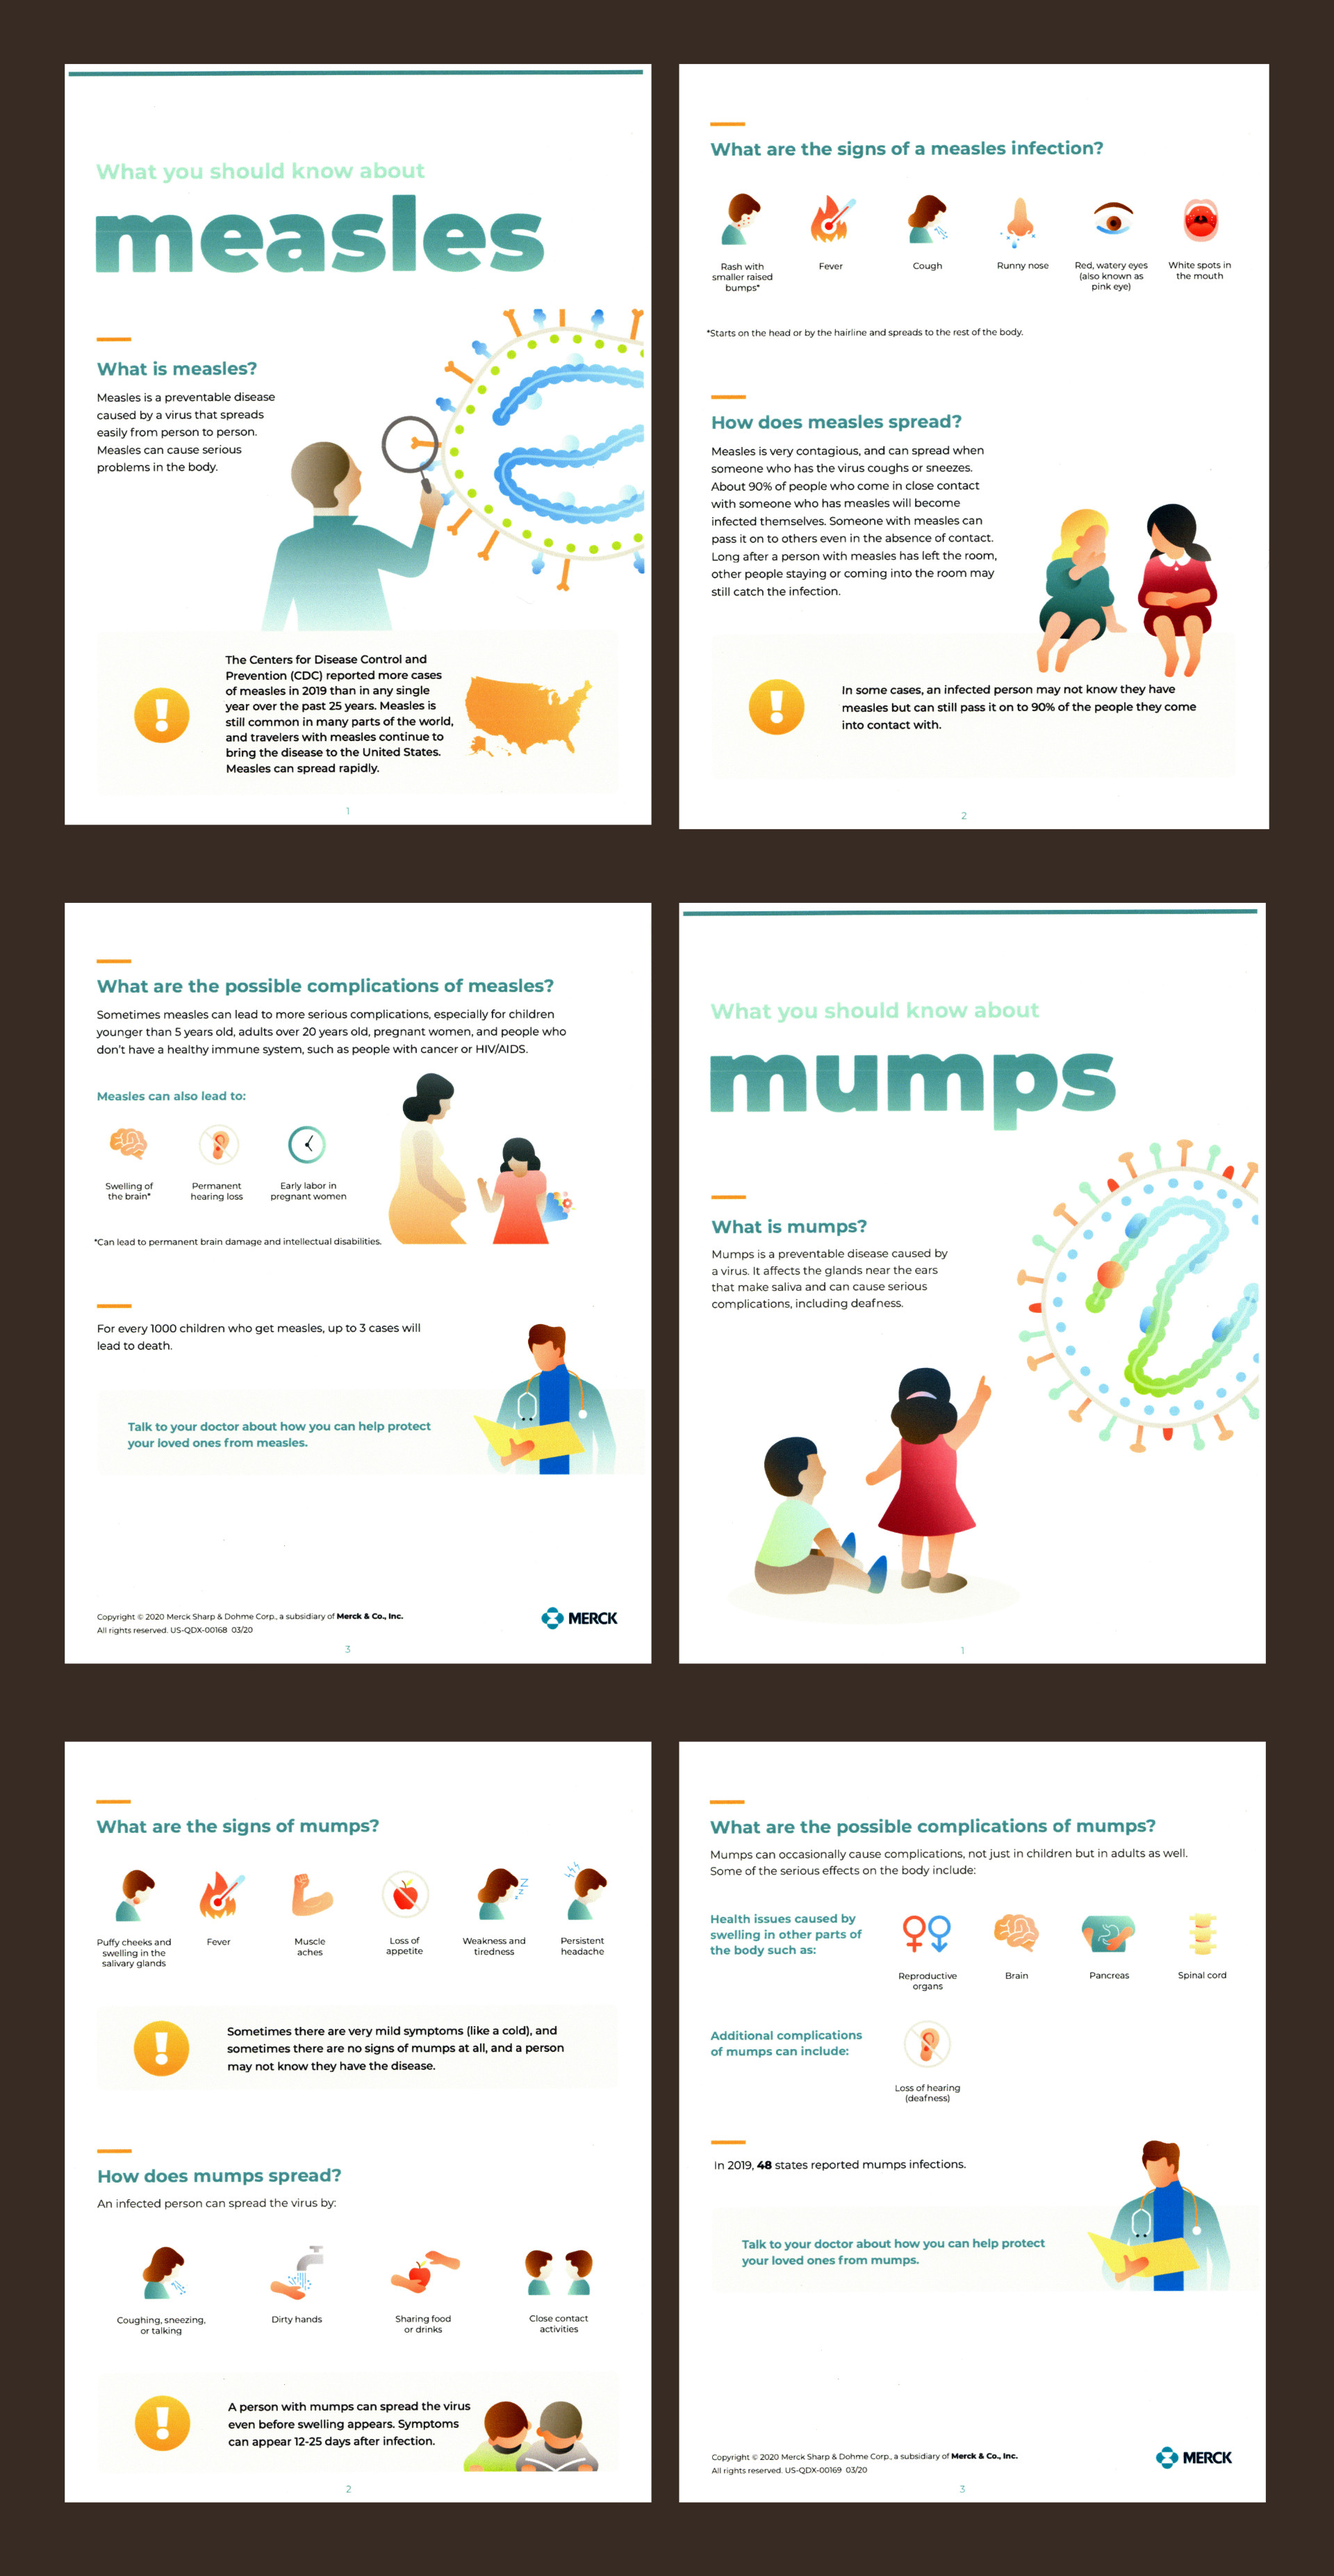
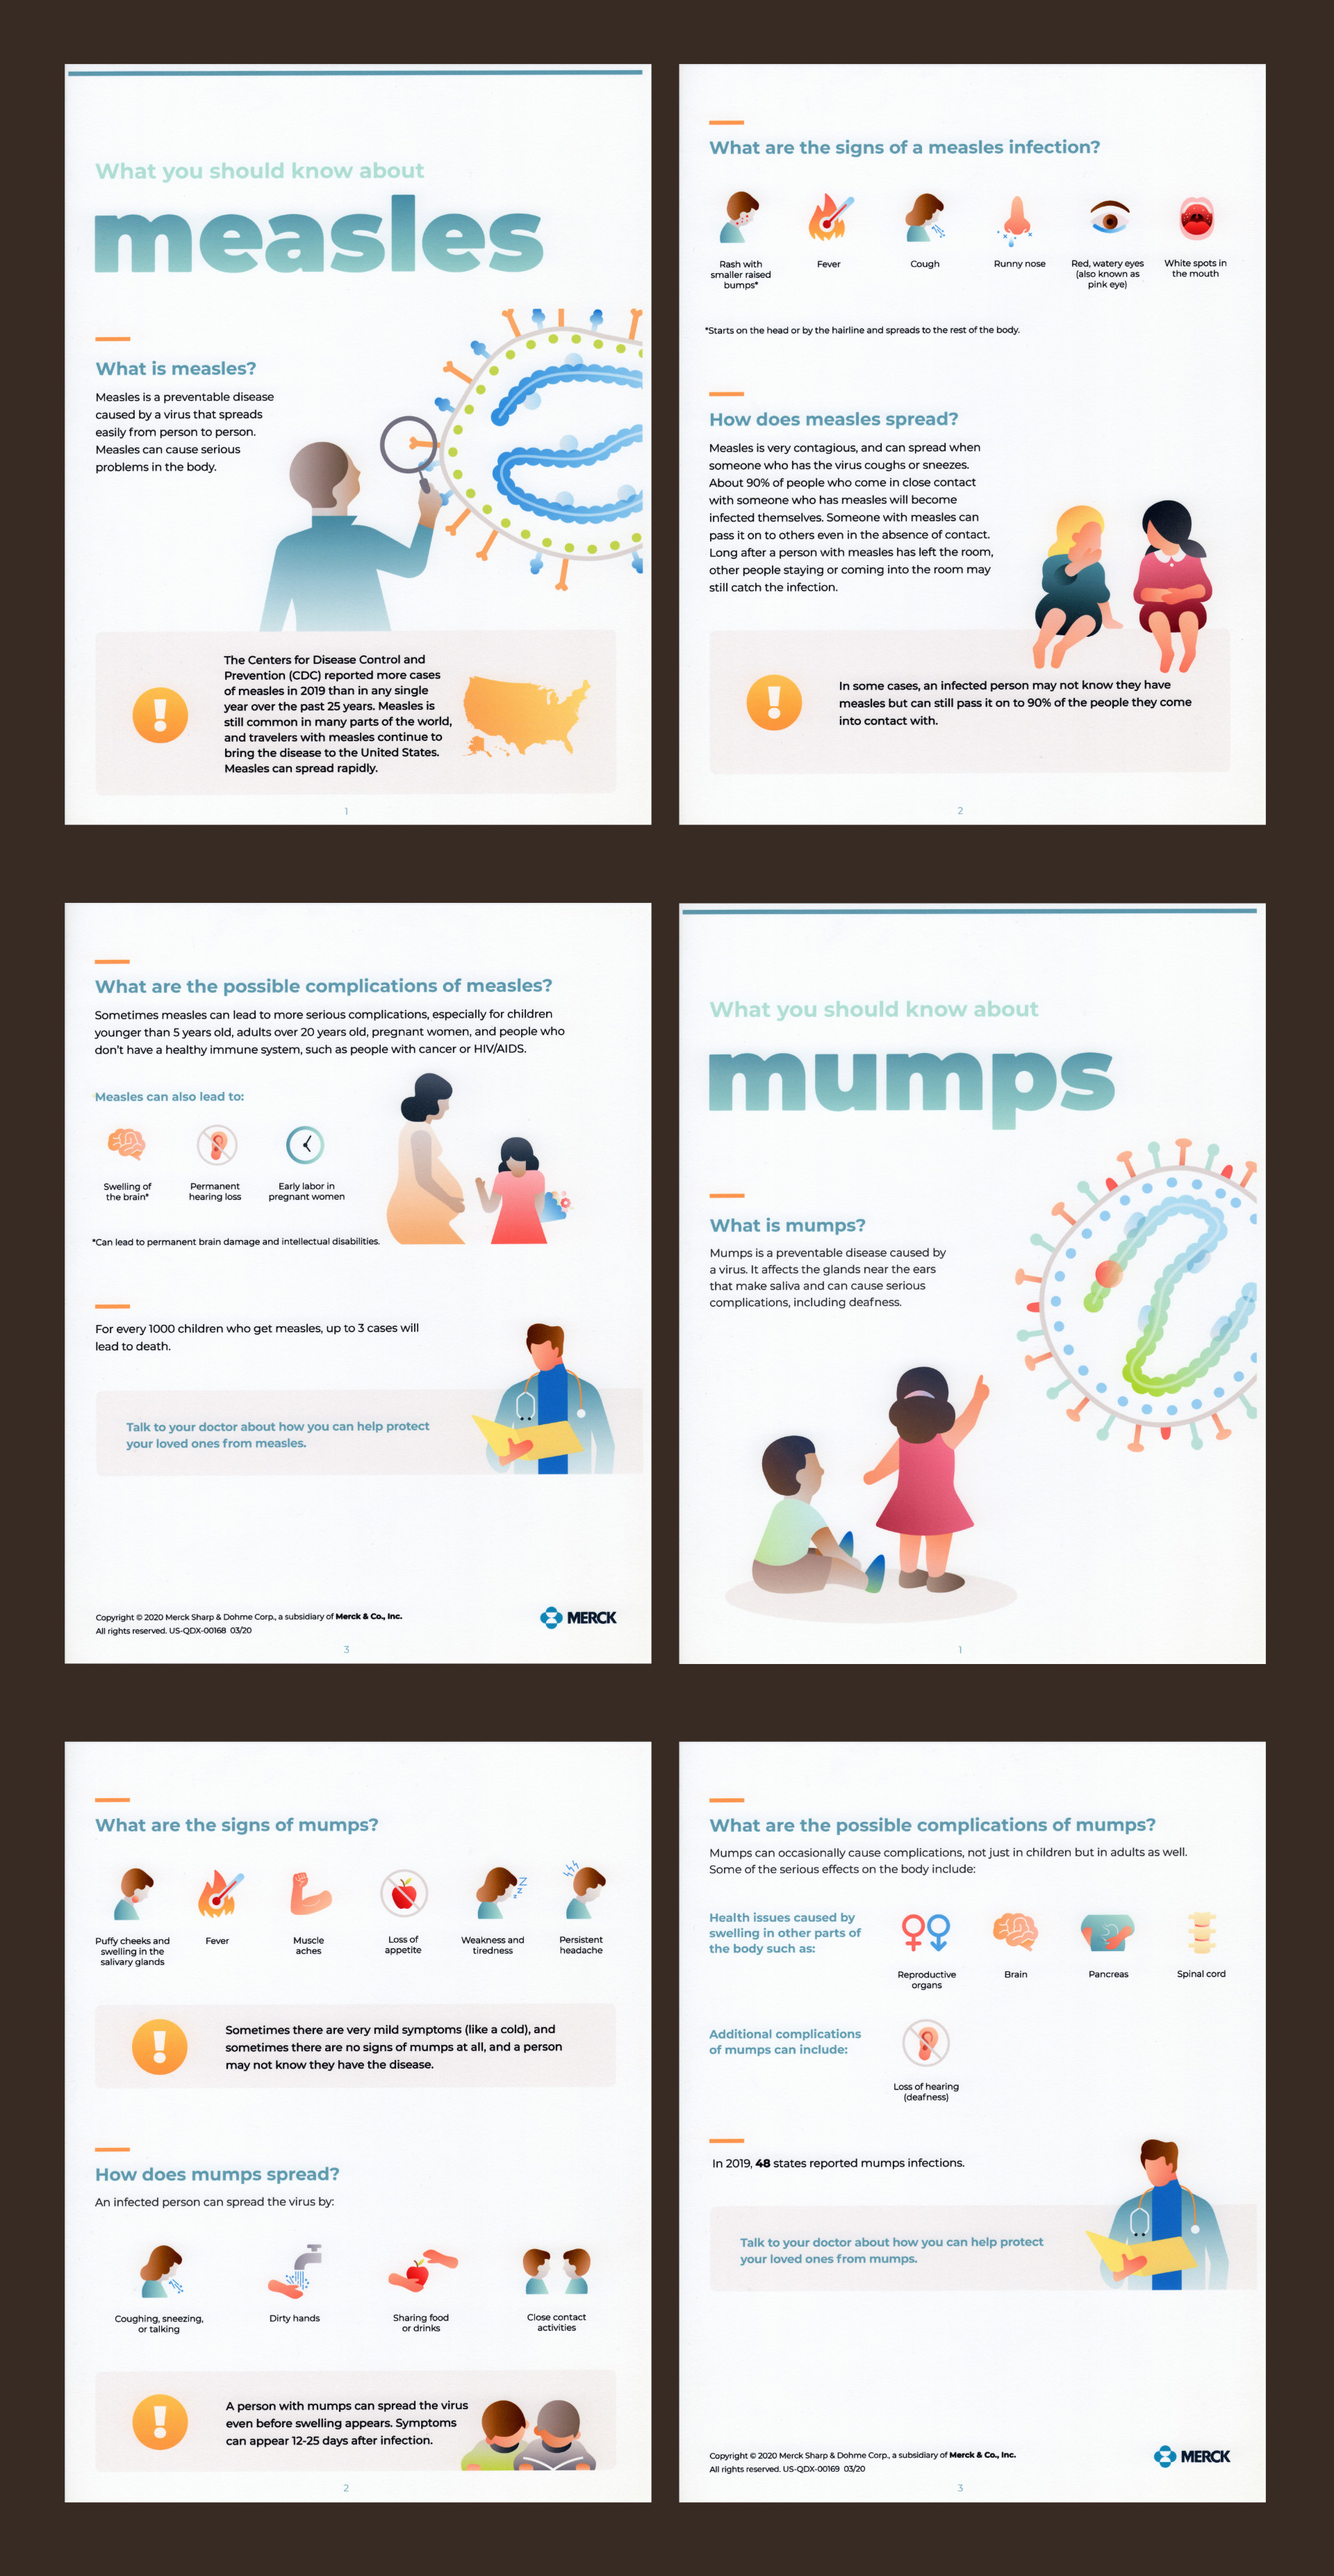
updates

diff --git a/partials/partial4.html b/partials/partial4.html
@@ -1,5 +1,7 @@
 <div>
 		<img ng-src='img/img-mmrv-brochure-1.jpg' width='100%' />
 		<h3 class="project-title">MMRV Brochures</h3>
-		<!-- <p class="project-description">FertilityJourney.com helps inform and empower people with resources and information needed to navigate the process of fertility care. The website aims to meet people wherever they are on their fertility journey and equip them with knowledge and questions for consideration to feel prepared and empowered throughout their journey. I helped establish the look and feel and visual design from start to finish.</p> -->
+		<p class="project-description">PDFs about measles,mumps, rubella, and varicella that doctors and nurses can download and share with patients and their legal representatives. I created all the icons and illustrations in Illustrator. These PDFs are available on MerckVaccines.com</p>
+		<br>
+		<img ng-src='img/img-mmrv-brochure-2.jpg' width='100%' />
 </div>
